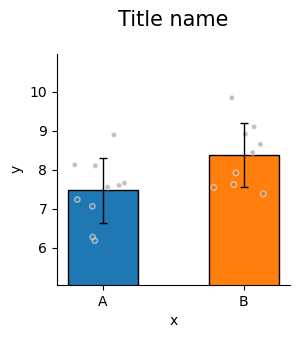
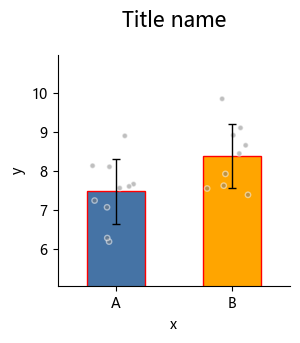
docs(web): 更新网页文档
展示bar图绘制新特征。
展示correlation图绘制新特征。
删除docs/assets/中的多余文件。

diff --git a/docs/usage/single_group_bar.md b/docs/usage/single_group_bar.md
@@ -44,8 +44,6 @@ fig, axes = plt.subplots(1, 2, figsize=(6, 3))
 fig.subplots_adjust(wspace=0.5)
 plot_one_group_bar_figure([ax1_bar1, ax1_bar2], ax=axes.flatten()[0])
 plot_one_group_bar_figure([ax2_bar1, ax2_bar2], ax=axes.flatten()[1])
-
-
 ```
 
 
@@ -78,8 +76,6 @@ plot_one_group_bar_figure([ax1_bar1, ax1_bar2], ax=axes[0,0], labels_name=["A", 
 plot_one_group_bar_figure([ax2_bar1, ax2_bar2], ax=axes[0,1], labels_name=["C", "D"])
 plot_one_group_bar_figure([ax3_bar1, ax3_bar2], ax=axes[1,0], labels_name=["E", "F"])
 plot_one_group_bar_figure([ax4_bar1, ax4_bar2], ax=axes[1,1], labels_name=["G", "H"])
-
-
 ```
 
 
@@ -116,8 +112,9 @@ plot_one_group_bar_figure(
     title_fontsize=15,
     width=0.5,
     dots_size=15,
-    colors=["#1f77b4", "#ff7f0e"],
+    colors=["#4573a5", "orange"],
     errorbar_type="sd",
+    edgecolor="r",
 )
 
 ```
@@ -125,6 +122,47 @@ plot_one_group_bar_figure(
 
     
 ![png](single_group_bar_files/single_group_bar_11_0.png)
+    
+
+
+`plot_one_group_bar_figure` 允许将bar作为渐变色， 适合用来展示不同对象之间的关系结果。
+
+假设我们计算了“人-黑猩猩，人-猕猴，黑猩猩-猕猴”同源的20个脑区之间的结构连接 Spearman 相关性。可以考虑使用这种展示方法。
+
+
+```python
+import numpy as np
+import matplotlib.pyplot as plt
+from plotfig import *
+
+
+human_color = "#e38a48"
+chimp_color = "#919191"
+macaque_color = "#4573a5"
+
+np.random.seed(42)
+human_chimp = np.random.normal(7, 1, 20)
+human_macaque = np.random.normal(7, 1, 20)
+chimp_macaque = np.random.normal(7, 1, 20)
+
+fig, ax = plt.subplots(figsize=(5,5))
+plot_one_group_bar_figure(
+    [human_chimp, human_macaque, chimp_macaque],
+    ax=ax,
+    labels_name=["Human-Chimp", "Human-Macaque", "Chimp-Macaque"],
+    y_label_name="Spearman correlation",
+    width=0.7,
+    errorbar_type="sd",
+    use_gradient_color=True,
+    colors_start= [human_color, human_color, chimp_color],
+    colors_end= [chimp_color, macaque_color, macaque_color]
+)
+
+```
+
+
+    
+![png](single_group_bar_files/single_group_bar_13_0.png)
     
 
 
@@ -154,7 +192,6 @@ plot_one_group_bar_figure(
     y_label_name="y",
     title_name="名字过长",
     title_fontsize=15,
-    colors=["#1f77b4", "#ff7f0e"],
 )
 plot_one_group_bar_figure(
     [data1, data2],
@@ -163,7 +200,6 @@ plot_one_group_bar_figure(
     y_label_name="y",
     title_name="锚定中间旋转",
     title_fontsize=15,
-    colors=["#1f77b4", "#ff7f0e"],
     x_tick_rotation=45,
     x_label_ha="center",  # 锚定中间旋转（默认）
 )
@@ -174,7 +210,6 @@ plot_one_group_bar_figure(
     y_label_name="y",
     title_name="锚定左边旋转",
     title_fontsize=15,
-    colors=["#1f77b4", "#ff7f0e"],
     x_tick_rotation=45,
     x_label_ha="left",  # 锚定左边旋转
 )
@@ -185,7 +220,6 @@ plot_one_group_bar_figure(
     y_label_name="y",
     title_name="锚定右边旋转",
     title_fontsize=15,
-    colors=["#1f77b4", "#ff7f0e"],
     x_tick_rotation=45,
     x_label_ha="right",  # 锚定右边旋转
 )
@@ -193,7 +227,7 @@ plot_one_group_bar_figure(
 
 
     
-![png](single_group_bar_files/single_group_bar_14_0.png)
+![png](single_group_bar_files/single_group_bar_16_0.png)
     
 
 
@@ -224,7 +258,6 @@ plot_one_group_bar_figure(
     y_label_name="y",
     title_name="黄金比例显示",
     title_fontsize=15,
-    colors=["#1f77b4", "#ff7f0e"],
 )
 plot_one_group_bar_figure(
     [data1, data2],
@@ -233,7 +266,6 @@ plot_one_group_bar_figure(
     y_label_name="y",
     title_name="手动设置y轴",
     title_fontsize=15,
-    colors=["#1f77b4", "#ff7f0e"],
     y_lim_range=(2, 6)  # 设置y轴范围
 )
 
@@ -241,7 +273,7 @@ plot_one_group_bar_figure(
 
 
     
-![png](single_group_bar_files/single_group_bar_17_0.png)
+![png](single_group_bar_files/single_group_bar_19_0.png)
     
 
 
@@ -269,7 +301,6 @@ plot_one_group_bar_figure(
     y_label_name="y",
     title_name="黄金比例显示",
     title_fontsize=15,
-    colors=["#1f77b4", "#ff7f0e"],
 )
 plot_one_group_bar_figure(
     [data1, data2],
@@ -278,7 +309,6 @@ plot_one_group_bar_figure(
     y_label_name="y",
     title_name="不显示负值",
     title_fontsize=15,
-    colors=["#1f77b4", "#ff7f0e"],
     ax_min_is_0=True,  # 不显示负值
 )
 
@@ -286,7 +316,7 @@ plot_one_group_bar_figure(
 
 
     
-![png](single_group_bar_files/single_group_bar_19_0.png)
+![png](single_group_bar_files/single_group_bar_21_0.png)
     
 
 
@@ -314,7 +344,6 @@ plot_one_group_bar_figure(
     y_label_name="y",
     title_name="黄金比例显示",
     title_fontsize=15,
-    colors=["#1f77b4", "#ff7f0e"],
 )
 plot_one_group_bar_figure(
     [data1, data2],
@@ -323,7 +352,6 @@ plot_one_group_bar_figure(
     y_label_name="y",
     title_name="y轴最大刻度取1",
     title_fontsize=15,
-    colors=["#1f77b4", "#ff7f0e"],
     y_max_tick_to_one=True,  # y轴最大刻度取1
 )
 
@@ -331,7 +359,7 @@ plot_one_group_bar_figure(
 
 
     
-![png](single_group_bar_files/single_group_bar_21_0.png)
+![png](single_group_bar_files/single_group_bar_23_0.png)
     
 
 
@@ -361,7 +389,6 @@ plot_one_group_bar_figure(
     y_label_name="y",
     title_name="科学计数法",
     title_fontsize=15,
-    colors=["#1f77b4", "#ff7f0e"],
 )  # 默认y轴使用科学计数法
 plot_one_group_bar_figure(
     [data1, data2],
@@ -370,7 +397,6 @@ plot_one_group_bar_figure(
     y_label_name="y",
     title_name="无科学计数法",
     title_fontsize=15,
-    colors=["#1f77b4", "#ff7f0e"],
     math_text=False,  # 手动关闭科学计数法
 )
 plot_one_group_bar_figure(
@@ -380,7 +406,6 @@ plot_one_group_bar_figure(
     y_label_name="y",
     title_name="科学计数法",
     title_fontsize=15,
-    colors=["#1f77b4", "#ff7f0e"],
 )  # 默认y轴使用科学计数法
 plot_one_group_bar_figure(
     [data3, data4],
@@ -389,14 +414,13 @@ plot_one_group_bar_figure(
     y_label_name="y",
     title_name="无科学计数法",
     title_fontsize=15,
-    colors=["#1f77b4", "#ff7f0e"],
     math_text=False,  # 手动关闭科学计数法
 )
 ```
 
 
     
-![png](single_group_bar_files/single_group_bar_23_0.png)
+![png](single_group_bar_files/single_group_bar_25_0.png)
     
 
 
@@ -424,7 +448,6 @@ plot_one_group_bar_figure(
     y_label_name="y",
     title_name="常规显示",
     title_fontsize=15,
-    colors=["#1f77b4", "#ff7f0e"],
 )
 plot_one_group_bar_figure(
     [data1, data2],
@@ -433,7 +456,6 @@ plot_one_group_bar_figure(
     y_label_name="y",
     title_name="显示百分比",
     title_fontsize=15,
-    colors=["#1f77b4", "#ff7f0e"],
     math_text=False,
     percentage=True,
 )
@@ -442,7 +464,7 @@ plot_one_group_bar_figure(
 
 
     
-![png](single_group_bar_files/single_group_bar_25_0.png)
+![png](single_group_bar_files/single_group_bar_27_0.png)
     
 
 
@@ -462,7 +484,8 @@ plt.rcParams['axes.unicode_minus'] = False  # 正确显示负号
 
 data1 = np.random.normal(0.5,  0.1, 10)
 data2 = np.random.normal(0.5, 0.1, 9)
-dots_color = [["gray"]*10, ["red"]*4+["blue"]*5]
+dots_color1 = [["blue"]*10, ["red"]*9]
+dots_color2 = [["green"]*5+["pink"]*5, ["orange"]*4+["purple"]*5]
 
 fig, axes = plt.subplots(1, 2, figsize=(6, 3))
 fig.subplots_adjust(wspace=0.5)
@@ -471,24 +494,25 @@ plot_one_group_bar_figure(
     ax=axes[0],
     labels_name=["A", "B"],
     y_label_name="y",
-    title_name="散点无颜色",
+    title_name="散点统一颜色",
     title_fontsize=15,
+    dots_color=dots_color1,  # 散点颜色
 )
 plot_one_group_bar_figure(
     [data1, data2],
     ax=axes[1],
     labels_name=["A", "B"],
     y_label_name="y",
-    title_name="散点分配颜色",
+    title_name="散点各自分配颜色",
     title_fontsize=15,
-    dots_color=dots_color,  # 散点颜色
+    dots_color=dots_color2,  # 散点颜色
 )
 
 ```
 
 
     
-![png](single_group_bar_files/single_group_bar_28_0.png)
+![png](single_group_bar_files/single_group_bar_30_0.png)
     
 
 
@@ -533,7 +557,6 @@ plot_one_group_bar_figure(
     y_label_name="y",
     title_name="独立样本t检验",
     title_fontsize=15,
-    colors=["#1f77b4", "#ff7f0e"],
     statistic=True, 
     test_method="ttest_ind"
 )
@@ -544,7 +567,6 @@ plot_one_group_bar_figure(
     y_label_name="y",
     title_name="配对样本t检验",
     title_fontsize=15,
-    colors=["#1f77b4", "#ff7f0e"],
     statistic=True, 
     test_method="ttest_rel"
 )
@@ -555,7 +577,6 @@ plot_one_group_bar_figure(
     y_label_name="y",
     title_name="Mann-Whitney U检验",
     title_fontsize=15,
-    colors=["#1f77b4", "#ff7f0e"],
     statistic=True, 
     test_method="mannwhitneyu"
 )
@@ -566,7 +587,6 @@ plot_one_group_bar_figure(
     y_label_name="y",
     title_name="外部检验",
     title_fontsize=15,
-    colors=["#1f77b4", "#ff7f0e"],
     statistic=True, 
     test_method="external",
     p_list=[0.01],
@@ -575,7 +595,7 @@ plot_one_group_bar_figure(
 
 
     
-![png](single_group_bar_files/single_group_bar_31_0.png)
+![png](single_group_bar_files/single_group_bar_33_0.png)
     
 
 
@@ -615,6 +635,6 @@ plot_one_group_bar_figure(
 
 
     
-![png](single_group_bar_files/single_group_bar_33_0.png)
+![png](single_group_bar_files/single_group_bar_35_0.png)
     
 

diff --git a/docs/usage/correlation.md b/docs/usage/correlation.md
@@ -27,7 +27,7 @@ plot_correlation_figure(data1,data2)
 
 ## 参数设置
 
-全部参数见[`plotfig.correlation`](../api/#plotfig.correlation)的API 文档。
+全部参数见[`plotfig.correlation`](../api/index.md/#plotfig.correlation)的API 文档。
 
 
 ```python
@@ -60,5 +60,43 @@ plot_correlation_figure(
 
     
 ![png](correlation_files/correlation_5_0.png)
+    
+
+
+利用 `hexbin=True` 。我们可以展示大量散点分布的密度，而不需要绘制所有的散点。
+
+
+```python
+import numpy as np
+import matplotlib.pyplot as plt
+from plotfig import *
+
+np.random.seed(42)
+n = 100_000
+data1 = np.random.standard_normal(n)
+data2 = 2.0 + 3.0 * data1 + 4.0 * np.random.standard_normal(n)
+
+fig, (ax1, ax2) = plt.subplots(1, 2, figsize=(7, 3), layout="constrained")
+plot_correlation_figure(
+    data1,
+    data2,
+    ax=ax1
+)
+
+hb = plot_correlation_figure(
+    data1,
+    data2,
+    ax=ax2,
+    hexbin=True,
+    hexbin_cmap="Reds",
+    hexbin_gridsize=30
+)
+cb = fig.colorbar(hb, ax=ax2, label='counts')
+
+```
+
+
+    
+![png](correlation_files/correlation_7_0.png)
     
 
